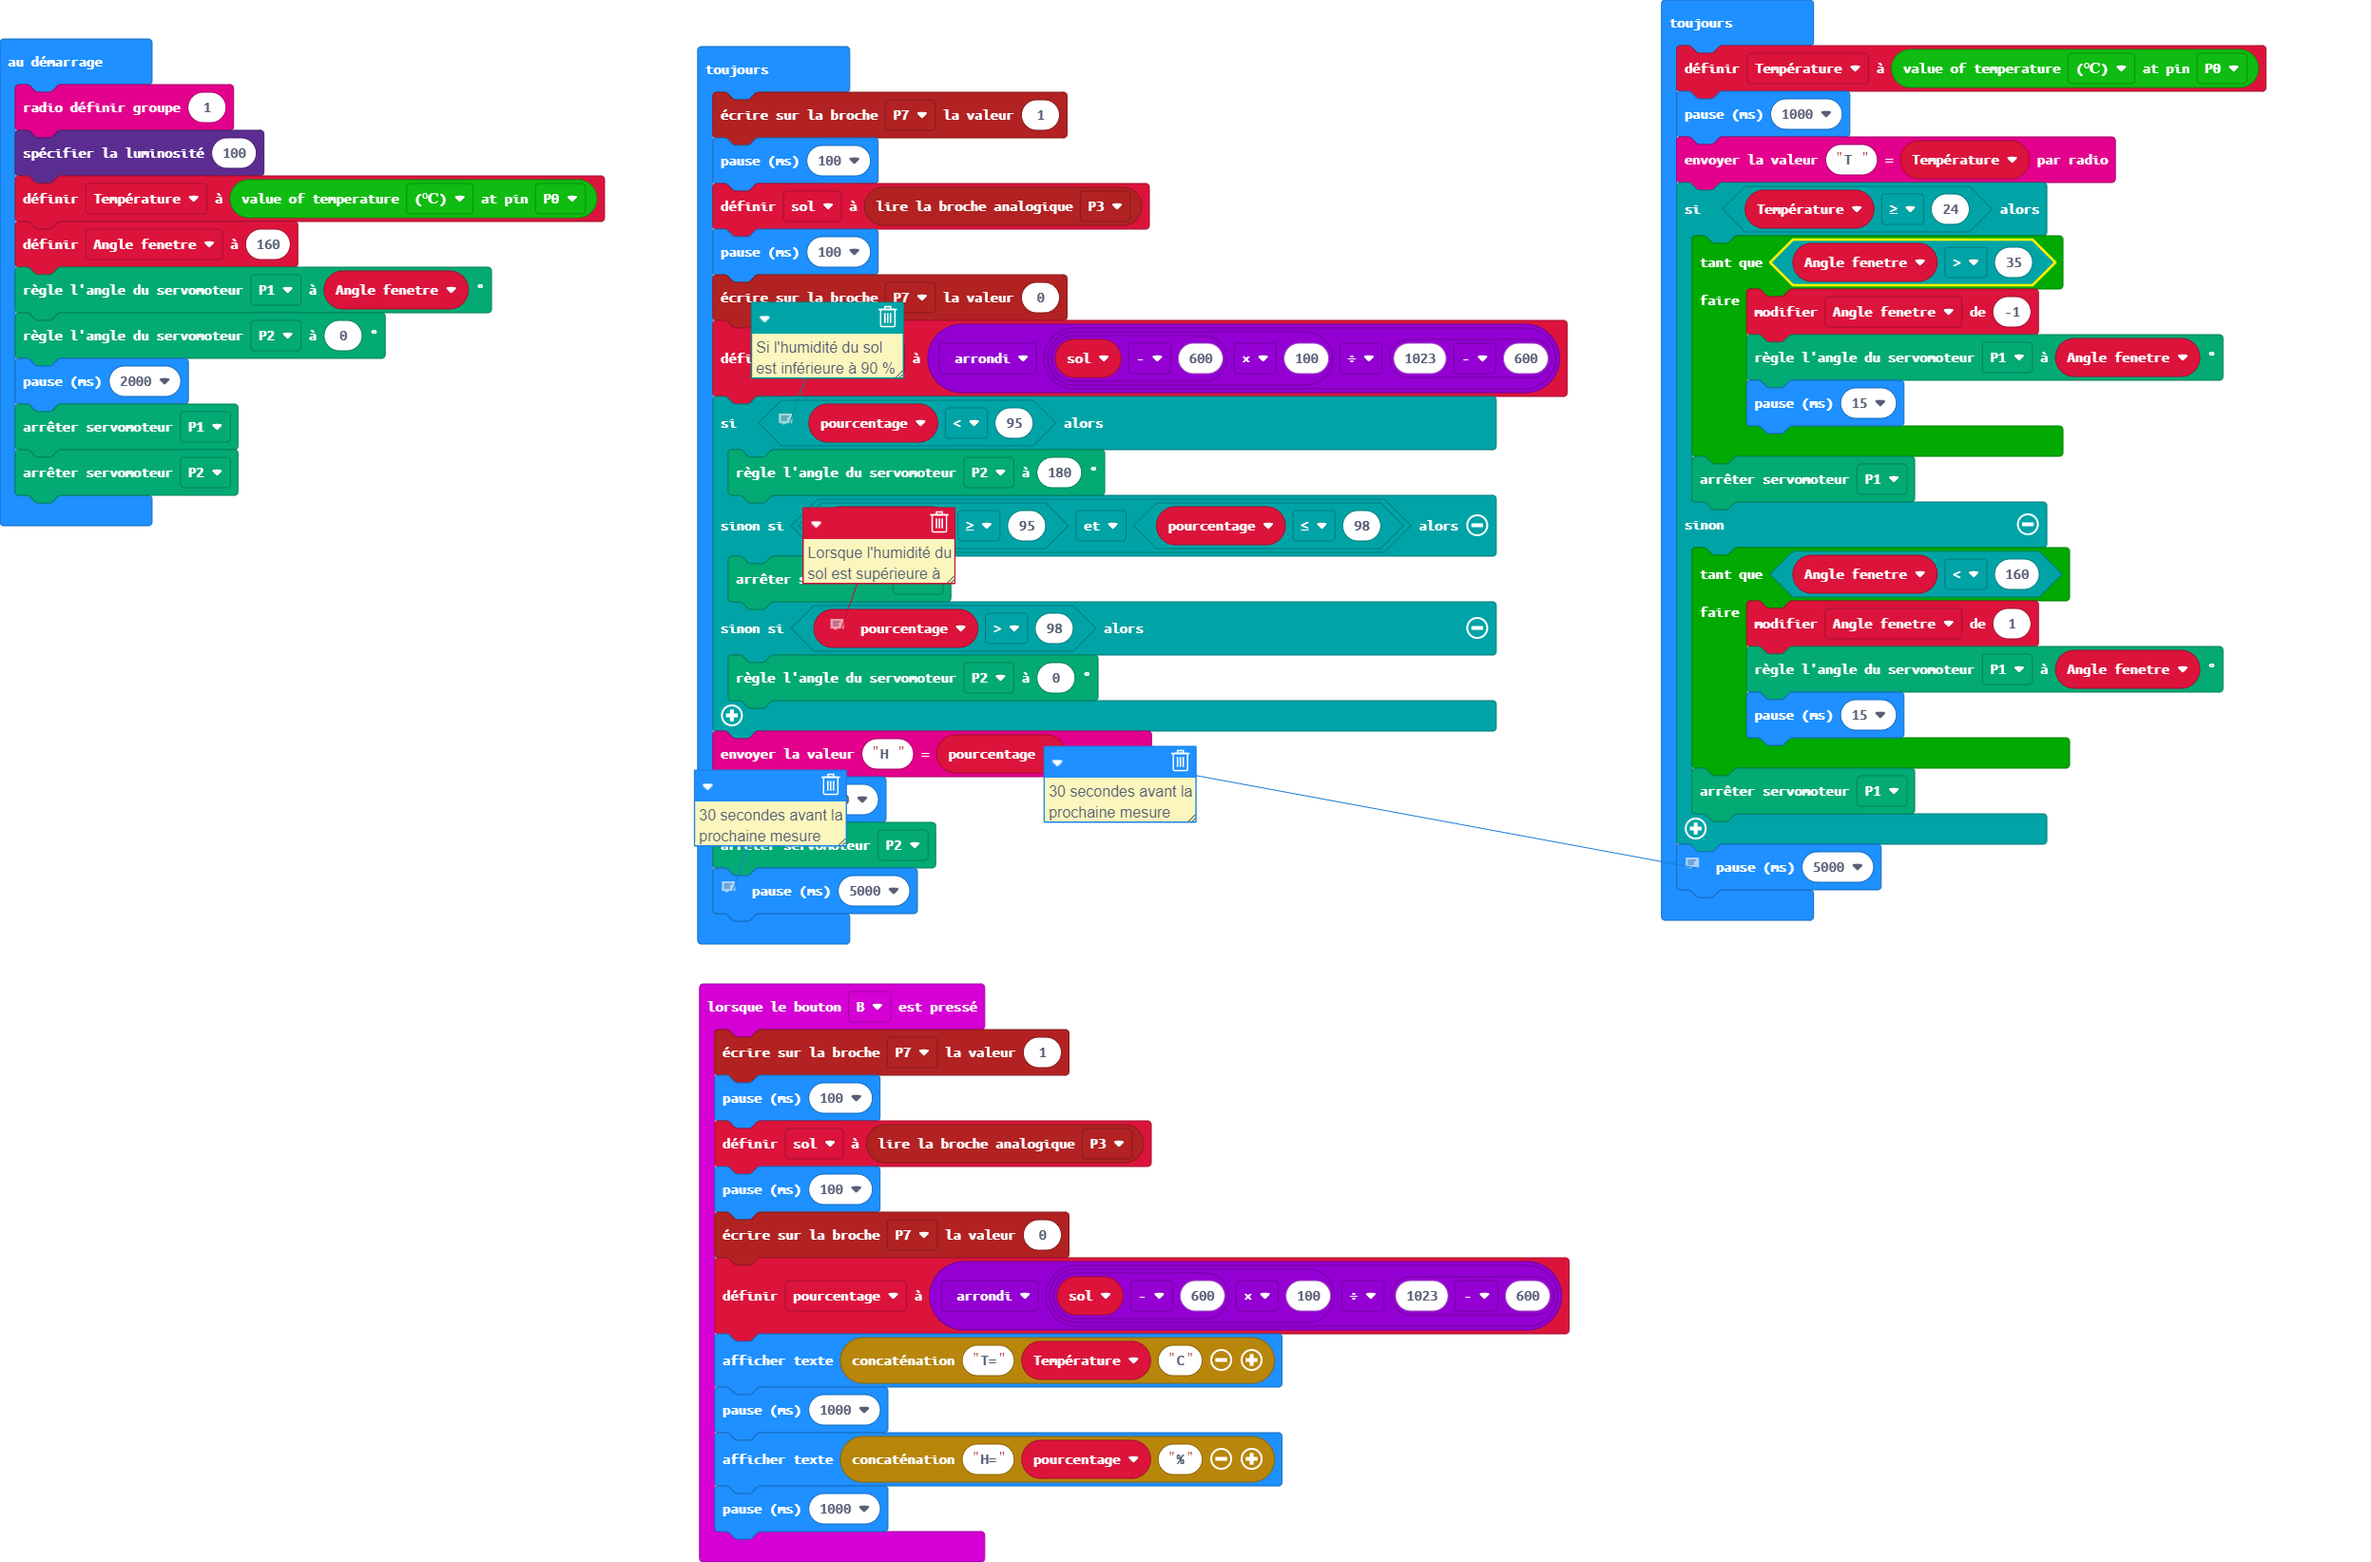
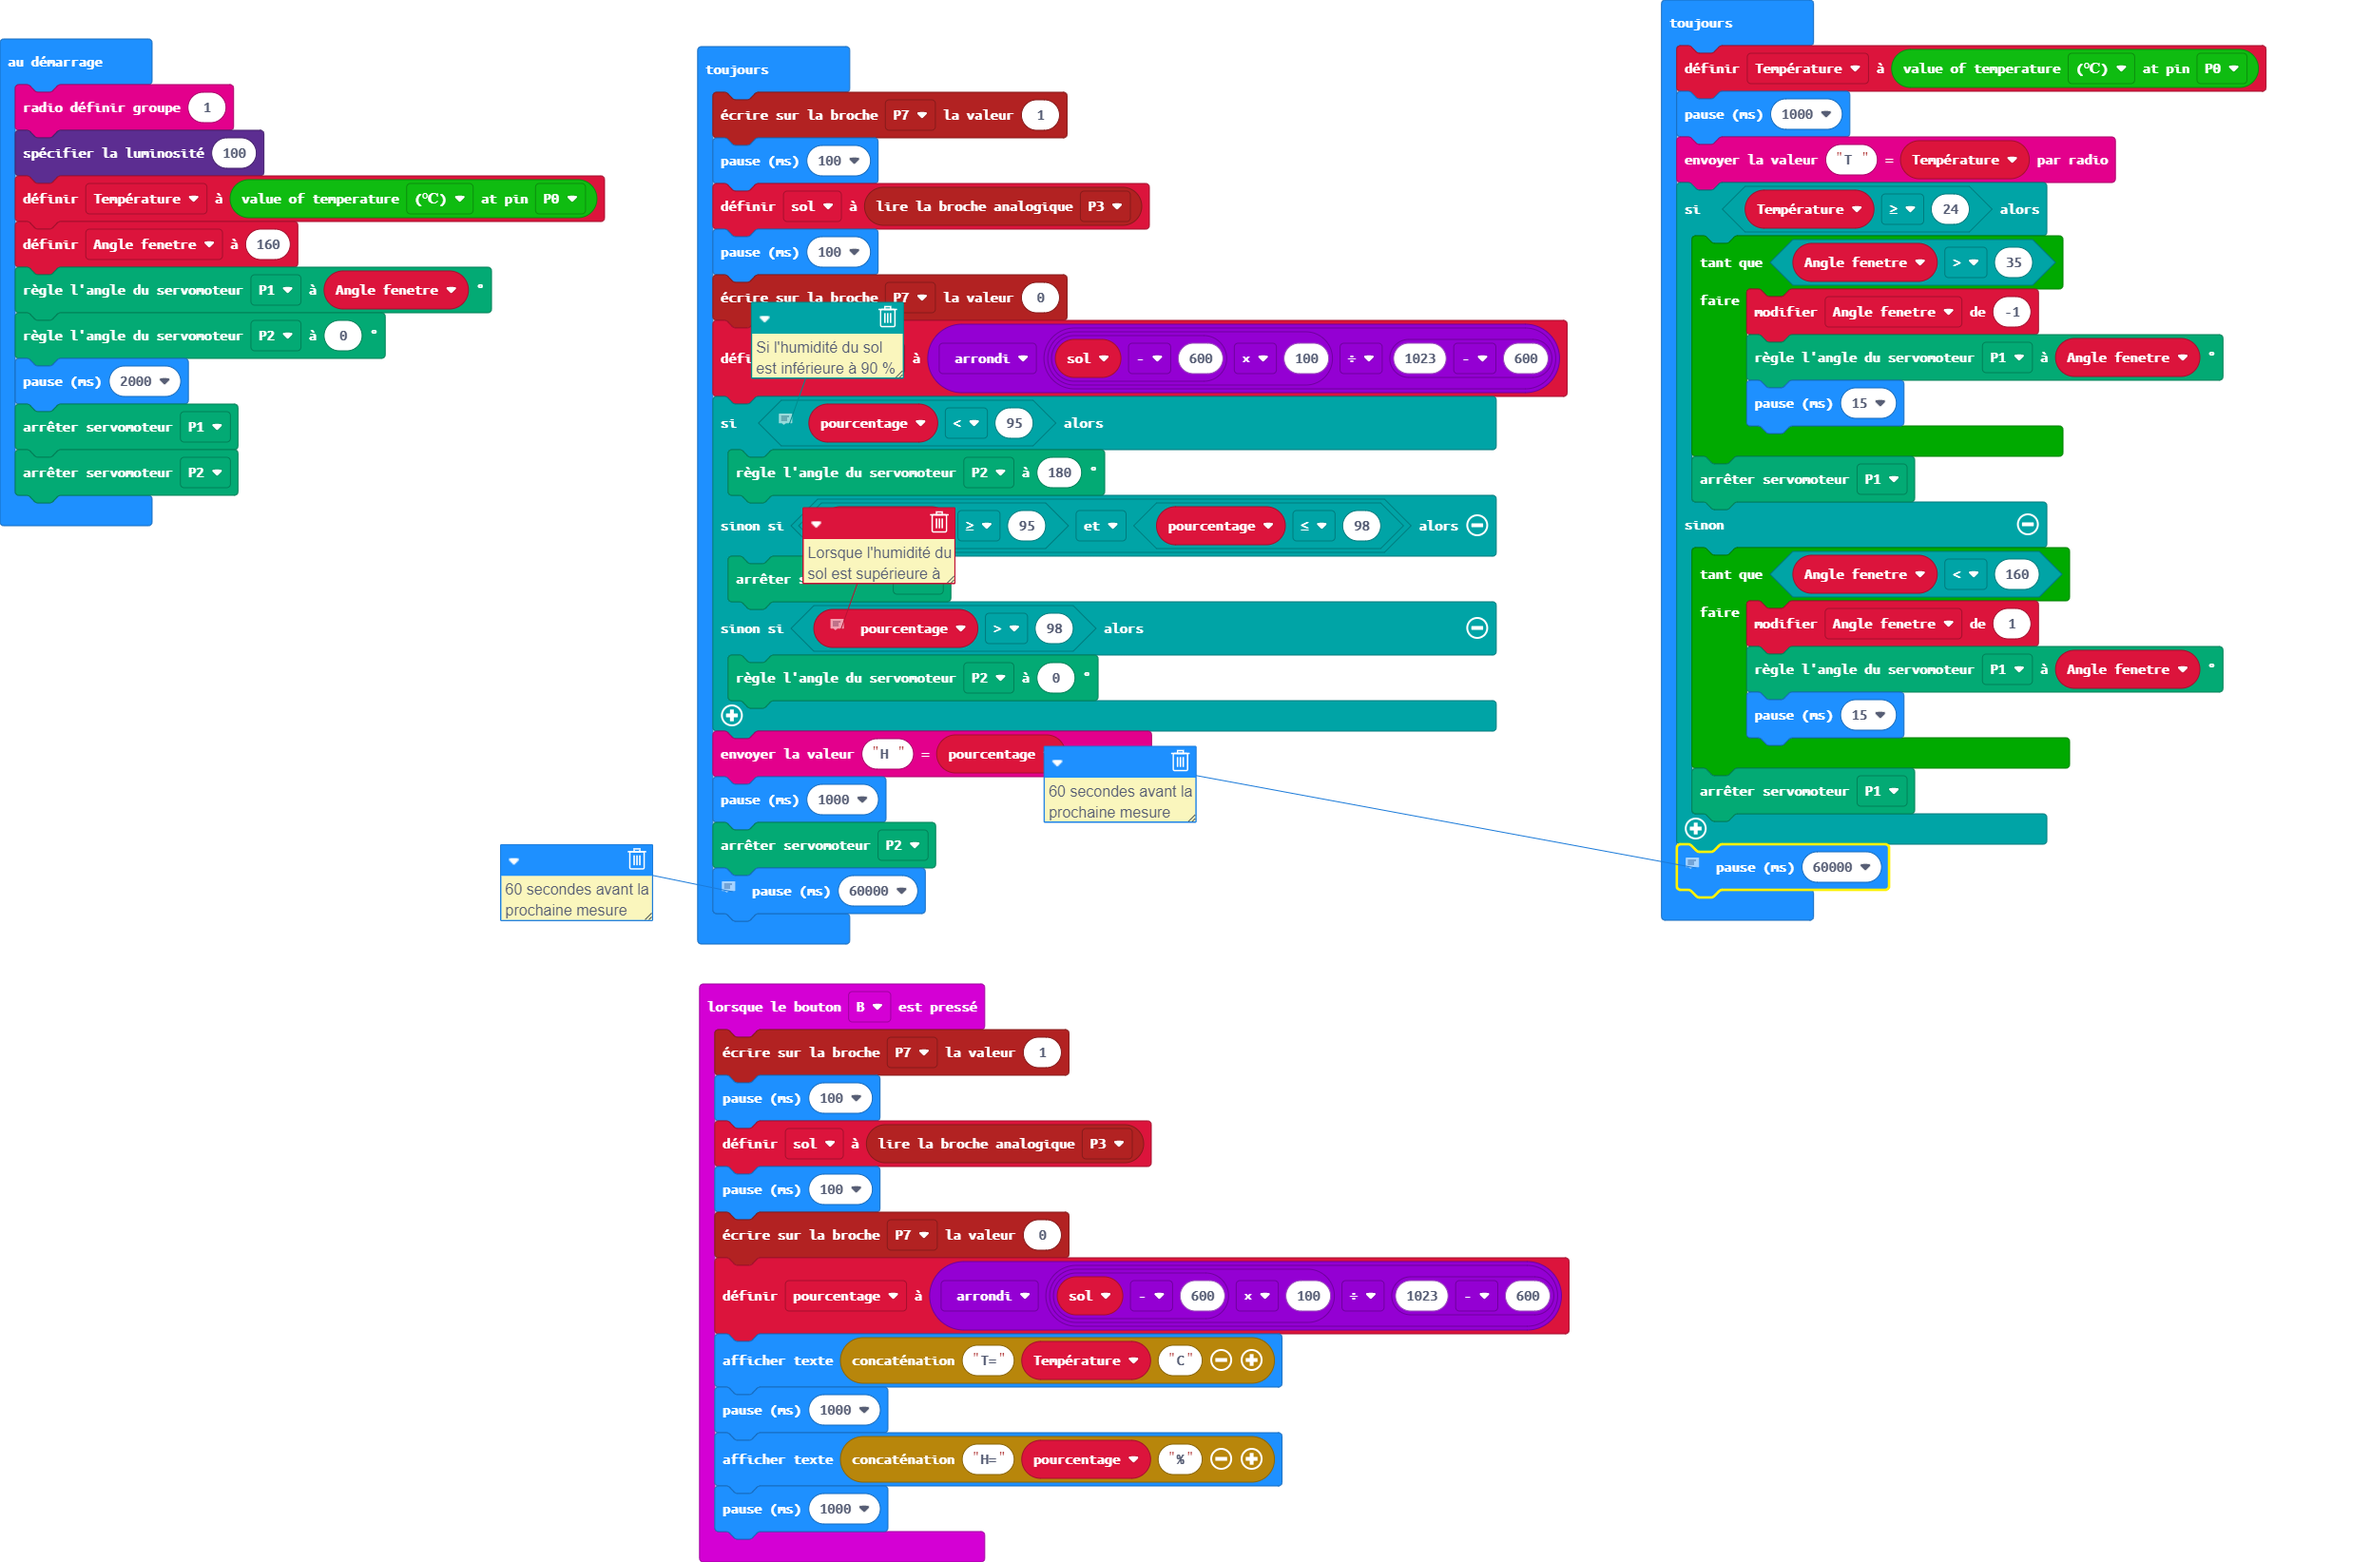
Mise à jour main.blocks, main.ts

diff --git a/main.ts b/main.ts
@@ -41,8 +41,8 @@ basic.forever(function () {
     radio.sendValue("H ", pourcentage)
     basic.pause(1000)
     servos.P2.stop()
-    // 30 secondes avant la prochaine mesure
-    basic.pause(5000)
+    // 60 secondes avant la prochaine mesure
+    basic.pause(60000)
 })
 basic.forever(function () {
     Température = smarthome.ReadTemperature(TMP36Type.TMP36_temperature_C, AnalogPin.P0)
@@ -63,6 +63,6 @@ basic.forever(function () {
         }
         servos.P1.stop()
     }
-    // 30 secondes avant la prochaine mesure
-    basic.pause(5000)
+    // 60 secondes avant la prochaine mesure
+    basic.pause(60000)
 })
